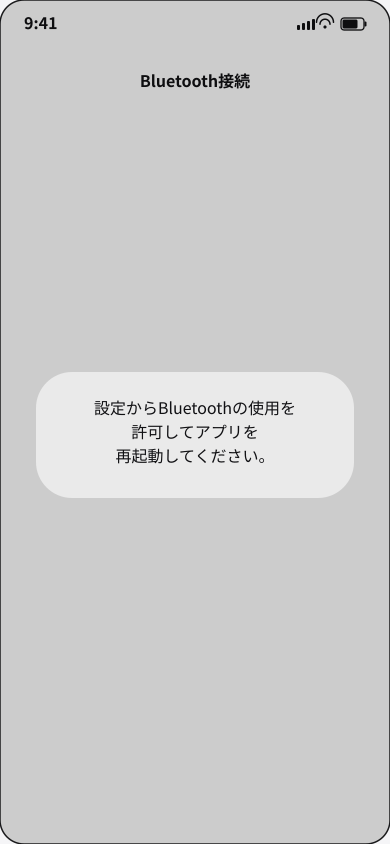
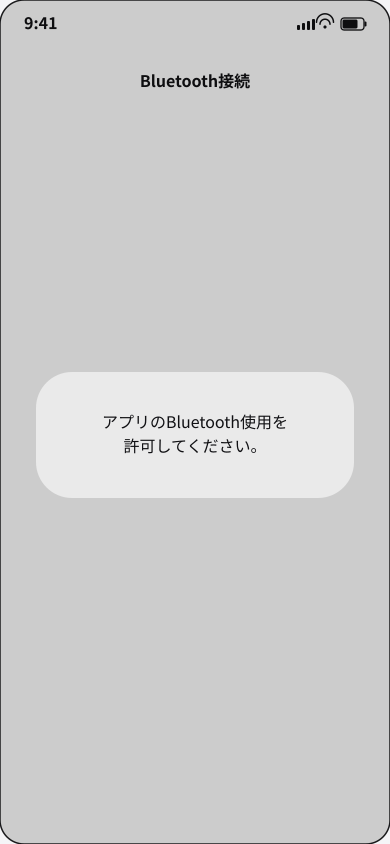
UI設計書6章のBluetooth使用許可・使用不許可・Bluetooth OFF時の表示を修正
- 6.3「Bluetooth接続画面を表示したとき」の使用許可の表現を修正
- 6.4の使用不許可通知を修正し、Bluetooth OFF通知と両通知の復帰動作を追加
- 使用不許可の画面図のメッセージを修正し、Bluetooth OFFの画面図を追加
- 作業進捗.mdを更新

Claude-Session: https://claude.ai/code/session_018GyyKPvXFjZLMMbLv1c9Ht

Changed region(s): [[0.2462, 0.4621, 0.7692, 0.5545]]

diff --git a/docs/design/UI設計書.md b/docs/design/UI設計書.md
@@ -93,6 +93,10 @@ Bluetooth使用不許可
 
 ![Bluetooth接続画面（Bluetooth使用不許可）](./UI_images/Bluetooth接続画面_Bluetooth使用不許可.png)
 
+端末のBluetoothがOFF
+
+![Bluetooth接続画面（Bluetooth OFF）](./UI_images/Bluetooth接続画面_BluetoothOFF.png)
+
 自端末IDと接続先IDが同じ場合
 
 ![Bluetooth接続画面（ID一致）](./UI_images/Bluetooth接続画面_ID一致.png)
@@ -120,7 +124,7 @@ ID入力欄をタップすると、標準の数字入力用キーボードを表
 
 | 契機 | 表示・動作 |
 |---|---|
-| Bluetooth接続画面を表示したとき | 初回起動時は、OS標準のBluetooth使用許可確認ダイアログを表示する。「許可」を選択すると、ID入力欄と「接続開始」「待受開始」ボタンを表示する。2回目以降の起動時は、Bluetoothの使用が許可されている場合、許可確認ダイアログを表示せず、ID入力欄と「接続開始」「待受開始」ボタンを表示する。 |
+| Bluetooth接続画面を表示したとき | アプリで初めてBluetoothを使用するときは、OS標準の使用許可確認ダイアログを表示する。「許可」を選択すると、ID入力欄と「接続開始」「待受開始」ボタンを表示する。許可済みの場合は、ID入力欄と「接続開始」「待受開始」ボタンを表示する。 |
 | 「接続開始」をタップし、接続処理を開始するとき | キーボードを閉じ、「接続中」のメッセージとインジケーターを表示する。 |
 | 接続開始後、接続が成立したとき | 「接続中」ダイアログを閉じ、「接続成功」ダイアログを表示する。3秒後にダイアログを閉じ、データ送信画面へ遷移する。 |
 | 「待受開始」をタップし、待受処理を開始するとき | キーボードを閉じ、「接続中」のメッセージとインジケーターを表示する。 |
@@ -130,9 +134,12 @@ ID入力欄をタップすると、標準の数字入力用キーボードを表
 
 | 契機 | 表示・動作 |
 |---|---|
-| Bluetooth接続画面の表示時に、Bluetooth使用が不許可の場合 | ID入力欄と「接続開始」「待受開始」ボタンを非表示にし、「設定からBluetoothの使用を許可してアプリを再起動してください。」をOKボタンなしで固定表示する。 |
+| Bluetooth接続画面の表示時に、アプリのBluetooth使用が不許可の場合 | ID入力欄と「接続開始」「待受開始」ボタンを非表示にし、「アプリのBluetooth使用を許可してください。」をOKボタンなしで固定表示する。 |
+| Bluetooth接続画面の表示時に、端末のBluetoothがOFFの場合 | ID入力欄と「接続開始」「待受開始」ボタンを非表示にし、「デバイスのBluetoothをONにしてください」をOKボタンなしで固定表示する。 |
 | 「接続開始」「待受開始」をタップし、自端末IDと接続先IDが同じ場合 | 通信を開始せず、「自端末IDと接続先IDは異なる値を入力してください。」の通知ダイアログを表示する。OKを押すと通知を閉じ、入力値を保持したBluetooth接続画面で修正できる。 |
 | 接続開始または待受開始に失敗したとき | 「接続中」ダイアログを閉じ、「接続に失敗しました。」の通知ダイアログを表示する。OKを押すと通知を閉じ、入力値を保持したBluetooth接続画面で再操作できる。 |
+
+使用不許可・Bluetooth OFFの通知は、アプリのBluetooth使用が許可され、端末のBluetoothがONになったら閉じ、ID入力欄と「接続開始」「待受開始」ボタンを表示する。利用者によるアプリの再起動は不要とする。
 
 ## 7. データ送信画面
 
